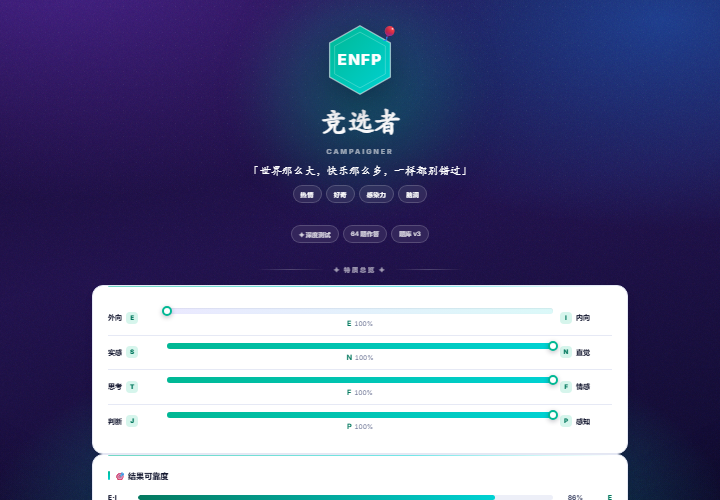
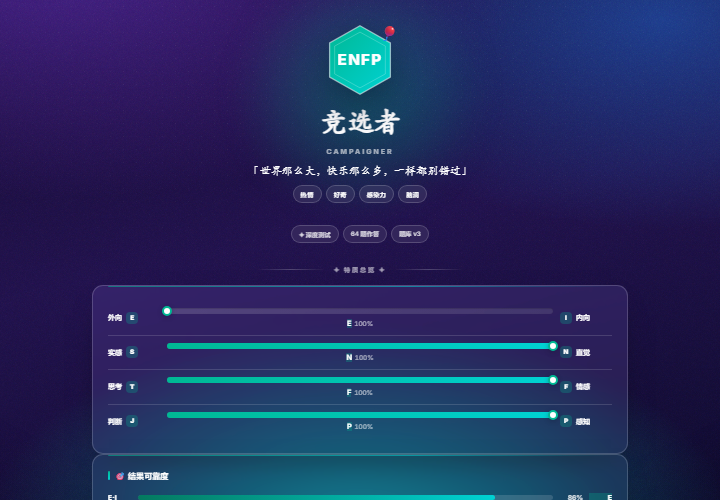
v4.1: 测试页/结果页改为玻璃材质，答题页布局恢复原版
按反馈调整：
- 答题页布局回归原版纵向三段式：顶部档位/重开 → 进度条与计数 →
  「雷达图（左 330px）＋ 题卡（右）」→ 实时画像预览（全宽，四维条两列）→ 题号跳转（全宽约 24 列）
- 顶栏不再吸附；题卡去掉 min-height 与垂直居中；删除上一版侧栏布局的
  .app-main/.app-side/.tt-row/.q-hint（含 CSS，保持无未使用类名）

玻璃材质（答题页 / 结果页，作用域主题层，不影响关系页与类型页的白卡）：
- 内容面 rgba(255,255,255,.075) + 白描边 + backdrop-filter blur(16px) saturate(130%) + 深投影
- 内层小面板 rgba(255,255,255,.07)；文字切换为深色面语义色阶（白 / .84 / .62 / .45）
- 类型色胶囊改深色面配方：color-mix(tcolor 26%) 底 + 白字 + 同色低透明描边
- 轨道/勾选框/题号格子/选项卡全部玻璃化；选项改为凸起玻璃砖（含顶部内高光）
- 次要按钮玻璃化，避免深色面上出现不透明白块

测试：静态 206 + 逻辑 127 + 仿真 28 + 冒烟 48 + SW 18 = 427 项全绿
契约：232 个类名全部被引用；style.css 51.5 KB（预算 60 KB 内）

Changed region(s): [[0.1222, 0.57, 0.8861, 1.0]]

diff --git a/style.css b/style.css
@@ -158,7 +158,7 @@ img { max-width:100%; height:auto; }
 .home-visual { display:flex; align-items:center; justify-content:center; min-width:0; }
 /* grid/flex 子项默认 min-width:auto 会被内容顶宽 → 窄屏横向溢出，这里统一允许收缩 */
 .home-copy, .home-visual, .home-start, .mode-cards, .home-chips,
-.test-grid, .app-main, .app-side, .result-duo, .stress-grid, .more-grid,
+.test-grid, .result-duo, .stress-grid, .more-grid,
 .options, .live-bars, .rel-picker, .jump-grid { min-width:0; }
 .dial { width:100%; max-width:440px; height:auto; filter:drop-shadow(0 30px 60px rgba(10,6,40,.5)); }
 .dial-hex { transform-origin:220px 220px; animation:dialSpin 26s linear infinite; }
@@ -330,13 +330,8 @@ img { max-width:100%; height:auto; }
    8. 答题页
    ============================================================ */
 .test-wrap { max-width:1240px; }
-.test-top {
-  position:sticky; top:0; z-index:20; display:grid; gap:10px;
-  margin:calc(var(--sp-7) * -1) 0 var(--sp-5); padding:14px 0 12px;
-  background:linear-gradient(180deg, rgba(21,10,51,.92) 0%, rgba(21,10,51,.72) 70%, rgba(21,10,51,0) 100%);
-  backdrop-filter:blur(12px); -webkit-backdrop-filter:blur(12px);
-}
-.tt-row { display:flex; align-items:center; gap:12px; }
+/* 顶部：档位 / 重开（跟随内容流动，不做吸附） */
+.test-top { display:flex; align-items:center; gap:12px; margin-bottom:16px; }
 .logo-mini {
   font-size:.84rem; font-weight:700; letter-spacing:.06em; color:var(--on-dark-1);
   text-decoration:none; padding:7px 13px; border-radius:var(--r-full);
@@ -361,15 +356,8 @@ img { max-width:100%; height:auto; }
 }
 .progress-meta { display:flex; justify-content:space-between; gap:12px; font-size:.8rem; color:var(--on-dark-3); }
 .progress-meta b { color:#fff; font-variant-numeric:tabular-nums; }
-.test-grid { display:grid; grid-template-columns:minmax(0,1fr) 372px; gap:var(--sp-5); align-items:start; }
-.app-main { display:grid; gap:var(--sp-5); min-width:0; }
-.app-side { display:grid; gap:var(--sp-4); position:sticky; top:112px; }
-.q-card { padding:var(--sp-7) var(--sp-6) var(--sp-6); min-height:480px; display:flex; flex-direction:column; justify-content:center; }
-.q-hint {
-  margin:var(--sp-4) 0 0; font-size:.78rem; color:var(--text-4); text-align:center;
-  padding-top:var(--sp-4); border-top:1px dashed var(--line-2);
-}
-.q-hint b { color:var(--tcolor-ink, var(--tcolor)); font-weight:800; }
+.test-grid { display:grid; grid-template-columns:330px minmax(0,1fr); gap:var(--sp-5); align-items:start; }
+.q-card { padding:var(--sp-6); }
 .q-num {
   align-self:flex-start;
   display:inline-flex; align-items:center; gap:8px;
@@ -423,7 +411,7 @@ img { max-width:100%; height:auto; }
 .live-panel { padding:var(--sp-5); }
 .live-head { display:grid; gap:8px; margin-bottom:var(--sp-4); }
 .live-bubble { font-size:.84rem; line-height:1.7; color:var(--text-3); }
-.live-bars { display:grid; gap:11px; }
+.live-bars { display:grid; gap:14px 28px; grid-template-columns:1fr 1fr; }
 .live-bar { display:grid; grid-template-columns:34px minmax(0,1fr) 44px; gap:10px; align-items:center; }
 .lb-label { font-size:.78rem; font-weight:800; color:var(--text-1); letter-spacing:.04em; }
 .lb-track {
@@ -447,7 +435,7 @@ img { max-width:100%; height:auto; }
 .jump-panel { padding:var(--sp-5); }
 .jump-head { display:flex; align-items:baseline; justify-content:space-between; gap:10px; margin-bottom:12px; }
 .jump-hint { font-size:.76rem; color:var(--text-4); }
-.jump-grid { display:grid; grid-template-columns:repeat(auto-fill, minmax(27px, 1fr)); gap:6px; }
+.jump-grid { display:grid; grid-template-columns:repeat(auto-fill, minmax(40px, 1fr)); gap:8px; }
 .jump-dot {
   aspect-ratio:1; border-radius:8px; border:1px solid var(--line-2); background:var(--paper-2);
   font-family:inherit; font-size:.7rem; font-weight:700; color:var(--text-3); cursor:pointer;
@@ -728,14 +716,140 @@ img { max-width:100%; height:auto; }
 @keyframes riseOut { to { opacity:0; transform:translateY(-10px); } }
 
 /* ============================================================
+   15. 玻璃材质主题（答题页 / 结果页）
+   ------------------------------------------------------------
+   这两个页面处于深色画布上，按首页的材质语言统一：
+   半透明玻璃面 + 白色描边 + 背景模糊 + 深色面文字色阶。
+   关系页与类型百科页保持纸面白卡（后续如需可同样切换）。
+   ============================================================ */
+:is(#page-test, #page-result) :is(
+  .desc-card, .gc-card, .fact-card, .trait-panel, .conf-panel, .easter-card,
+  .q-card, .radar-wrap, .live-panel, .jump-panel, .modal-card, .rel-stat, .rel-slot, .rel-side
+) {
+  background:rgba(255,255,255,.075);
+  border-color:rgba(255,255,255,.18);
+  box-shadow:0 26px 60px -34px rgba(0,0,0,.75);
+  color:rgba(255,255,255,.84);
+  backdrop-filter:blur(16px) saturate(130%);
+  -webkit-backdrop-filter:blur(16px) saturate(130%);
+}
+:is(#page-test, #page-result) :is(
+  .stress-item, .more-item, .cl-item, .cl-item-static, .hist-item, .rel-tabs, .q-num
+) {
+  background:rgba(255,255,255,.07);
+  border-color:rgba(255,255,255,.16);
+}
+/* 文字色阶 */
+:is(#page-test, #page-result) :is(
+  .desc-card h3, .gc-card h4, .conf-panel h4, .fact-card h3, .easter-card h2,
+  .trait-label, .conf-label, .lb-label, .live-letters, .q-text, .si-title, .mi-title, .opt
+) { color:#FFFFFF; }
+:is(#page-test, #page-result) :is(
+  .desc-text, .gc-text, .gc-list li, .cl-text, .rel-text, .easter-card p, .m-text,
+  .gc-bar-text, .conf-val, .lb-val, .opt.selected, .rel-tab.active
+) { color:rgba(255,255,255,.84); }
+:is(#page-test, #page-result) :is(
+  .gc-sub, .trait-pct, .cl-tip, .conf-note, .live-bubble, .jump-hint, .radar-hint,
+  .ed-val, .easter-hint, .radar-txt h3, .live-head h3, .jump-head span:first-child,
+  .cf-tag, .hist-delta, .hi-dim, .hi-val.right, .rel-tab, .opt-tag, .m-zh, .type-en
+) { color:rgba(255,255,255,.62); }
+:is(#page-test, #page-result) :is(.cl-item.done .cl-text) { color:rgba(255,255,255,.45); }
+/* 类型色胶囊 / 徽标：深色面上改用同色低透明底 + 白字 */
+:is(#page-test, #page-result) :is(
+  .gc-chip, .live-chip, .gc-num, .gc-quote, .trait-label b, .trait-pct b, .conf-letter,
+  .gc-bar-val, .cl-progress, .hist-type, .ed-label, .q-num, .rel-side b, .rel-stat b
+) {
+  background:color-mix(in srgb, var(--tcolor) 26%, transparent);
+  border-color:color-mix(in srgb, var(--tcolor) 48%, transparent);
+  color:#FFFFFF;
+}
+:is(#page-test, #page-result) :is(.gc-chip, .live-chip, .gc-quote, .q-num, .rel-side) {
+  border:1px solid color-mix(in srgb, var(--tcolor) 42%, transparent);
+}
+/* 轨道 / 输入面 / 勾选框 */
+:is(#page-test, #page-result) :is(.conf-track, .gc-bar, .rel-bar) { background:rgba(255,255,255,.14); }
+:is(#page-test, #page-result) :is(.lb-track, .trait-track) {
+  background:linear-gradient(90deg, rgba(255,255,255,.16), rgba(255,255,255,.10));
+  box-shadow:inset 0 1px 2px rgba(0,0,0,.28);
+}
+:is(#page-test, #page-result) :is(.lb-mid) { background:rgba(255,255,255,.30); }
+:is(#page-test, #page-result) :is(.cl-box) { background:rgba(255,255,255,.06); border-color:rgba(255,255,255,.30); }
+:is(#page-test, #page-result) :is(.jump-dot) {
+  background:rgba(255,255,255,.06); border-color:rgba(255,255,255,.16); color:rgba(255,255,255,.66);
+}
+:is(#page-test, #page-result) :is(.jump-dot.done) {
+  background:color-mix(in srgb, var(--tcolor) 30%, transparent);
+  border-color:color-mix(in srgb, var(--tcolor) 55%, transparent); color:#FFFFFF;
+}
+:is(#page-test, #page-result) :is(.opt) {
+  background:rgba(255,255,255,.13);
+  border-color:rgba(255,255,255,.26);
+  box-shadow:inset 0 1px 0 rgba(255,255,255,.14);
+}
+:is(#page-test, #page-result) :is(.opt:hover) {
+  background:rgba(255,255,255,.20);
+  border-color:color-mix(in srgb, var(--tcolor) 65%, transparent);
+}
+:is(#page-test, #page-result) :is(.opt.selected) {
+  background:color-mix(in srgb, var(--tcolor) 26%, transparent);
+  border-color:var(--tcolor);
+  box-shadow:0 0 0 3px color-mix(in srgb, var(--tcolor) 22%, transparent);
+}
+:is(#page-test, #page-result) :is(.opt-key) { background:rgba(255,255,255,.12); color:rgba(255,255,255,.72); }
+:is(#page-test, #page-result) :is(.opt.selected .opt-key) { background:var(--tcolor); color:#FFFFFF; }
+:is(#page-test, #page-result) :is(.opt.selected .opt-tag) { color:rgba(255,255,255,.86); }
+:is(#page-test, #page-result) :is(.opt-indicator) {
+  background:color-mix(in srgb, var(--tcolor) 26%, transparent);
+  border-color:var(--tcolor);
+}
+/* 分隔线与其余细节 */
+:is(#page-test, #page-result) :is(.live-foot) { border-top-color:rgba(255,255,255,.16); }
+:is(#page-test, #page-result) :is(.trait-row) { border-bottom-color:rgba(255,255,255,.14); }
+:is(#page-test, #page-result) :is(.cf-tag) { background:rgba(255,255,255,.10); }
+:is(#page-test, #page-result) :is(.trait-knob) { background:#FFFFFF; }
+:is(#page-test, #page-result) :is(.cl-item.done) {
+  background:color-mix(in srgb, var(--tcolor) 22%, transparent);
+  border-color:color-mix(in srgb, var(--tcolor) 50%, transparent);
+}
+:is(#page-test, #page-result) :is(.m-close) {
+  background:rgba(255,255,255,.10); border-color:rgba(255,255,255,.20); color:#FFFFFF;
+}
+:is(#page-test, #page-result) :is(.ed-track) {
+  background:linear-gradient(90deg, color-mix(in srgb, var(--tcolor) 55%, transparent), rgba(255,255,255,.16) 50%, rgba(255,255,255,.24));
+}
+:is(#page-test, #page-result) :is(.ed-track i) { background:#FFFFFF; border-color:var(--tcolor); }
+:is(#page-test, #page-result) :is(.milestone) { color:#FFFFFF; }
+:is(#page-test, #page-result) :is(.conf-facets.ok .cf-txt) { color:#7DEBEB; }
+:is(#page-test, #page-result) :is(.conf-facets.soso .cf-txt) { color:#F5C06B; }
+:is(#page-test, #page-result) :is(.conf-facets.split .cf-txt, .cf-warn) { color:#FF9B9B; }
+:is(#page-test, #page-result) :is(.trait-amb) { color:#F5C06B; background:rgba(245,166,35,.18); }
+:is(#page-test, #page-result) :is(.golden) {
+  background:rgba(245,166,35,.14) !important; border-color:rgba(245,166,35,.55) !important;
+}
+:is(#page-test, #page-result) :is(.rel-tab.active) {
+  background:linear-gradient(135deg, var(--tcolor), var(--cyan-500)); color:#FFFFFF;
+}
+/* 深色面上的次要按钮也改成玻璃，避免不透明白块突兀 */
+:is(#page-test, #page-result) :is(.btn-ghost, .btn.ghost) {
+  background:rgba(255,255,255,.10);
+  border-color:rgba(255,255,255,.22);
+  color:#FFFFFF;
+  backdrop-filter:blur(12px); -webkit-backdrop-filter:blur(12px);
+}
+:is(#page-test, #page-result) :is(.btn-ghost:hover, .btn.ghost:hover) {
+  background:rgba(255,255,255,.18);
+  border-color:rgba(255,255,255,.34);
+  box-shadow:0 14px 30px -16px rgba(0,0,0,.65);
+}
+
+/* ============================================================
    14. 响应式
    ============================================================ */
 @media (max-width: 1080px) {
   .home-grid { grid-template-columns:minmax(0,1fr); gap:var(--sp-6); }
   .home-visual { order:-1; }
   .dial { max-width:300px; }
-  .test-grid { grid-template-columns:1fr; }
-  .app-side { position:static; }
+  .test-grid { grid-template-columns:minmax(0,1fr); }
   .type-nav { grid-template-columns:repeat(4, minmax(0,1fr)); }
 }
 @media (max-width: 760px) {

diff --git a/test.html b/test.html
@@ -32,74 +32,67 @@
 
     <h1 class="visually-hidden">MBTI 人格测试答题</h1>
 
-    <!-- 顶部：档位 / 重开 + 进度（吸顶，答题时始终可见） -->
-    <header class="test-top">
-      <div class="tt-row">
-        <a class="logo-mini" href="index.html">✦ 人格实验室</a>
-        <span class="mode-badge" id="modeBadge">深度测试 · 64 题</span>
-        <span class="spacer"></span>
-        <a class="tt-reset" href="#" id="resetLink">↺ 重新开始</a>
-      </div>
-      <div class="progress-track" id="progressTrack" role="progressbar" aria-valuemin="0" aria-valuemax="64" aria-valuenow="0" aria-label="答题进度"><div class="progress-fill" id="progressFill"></div></div>
-      <div class="progress-meta">
-        <span>第 <b id="qCurrent">1</b> / <b id="qTotal">64</b> 题</span>
-        <span>已完成 <b id="qDone">0 / 64</b> 题</span>
-      </div>
-    </header>
+    <!-- 顶部：档位 / 重开 -->
+    <div class="test-top">
+      <a class="logo-mini" href="index.html">✦ 人格实验室</a>
+      <span class="mode-badge" id="modeBadge">深度测试 · 64 题</span>
+      <span class="spacer"></span>
+      <a class="tt-reset" href="#" id="resetLink">↺ 重新开始</a>
+    </div>
+
+    <div class="progress-track" id="progressTrack" role="progressbar" aria-valuemin="0" aria-valuemax="64" aria-valuenow="0" aria-label="答题进度"><div class="progress-fill" id="progressFill"></div></div>
+    <div class="progress-meta">
+      <span>第 <b id="qCurrent">1</b> / <b id="qTotal">64</b> 题</span>
+      <span>已完成 <b id="qDone">0</b> 题</span>
+    </div>
 
     <div class="test-grid">
-      <div class="app-main">
-        <!-- 题目卡片 -->
-        <section class="q-card">
-          <span class="q-num" id="qNum">第 1 题</span>
-          <p class="q-text" id="qText" aria-live="polite"></p>
-          <div class="options" id="options" role="radiogroup" aria-label="请选择你的同意程度"></div>
-
-          <div class="test-nav">
-            <button type="button" class="btn btn-ghost" id="prevBtn">← 上一题</button>
-            <button type="button" class="btn btn-primary" id="nextBtn">下一题 →</button>
-          </div>
-
-          <p class="q-hint">键盘 <b>1-4</b> 选答 · <b>← →</b> 切题 · 进度自动保存，随时可以回来继续</p>
-
-          <!-- 阶段提示（深度测试每 15 题一次） -->
-          <div class="milestone" id="milestone" role="status"></div>
-        </section>
-      </div>
-
-      <aside class="app-side">
-        <!-- 实时雷达图 -->
-        <aside class="radar-wrap">
-          <div class="radar-txt">
-            <h3>四维雷达图</h3>
-            <canvas id="radar" width="230" height="230" aria-label="四维人格倾向雷达图"></canvas>
-            <p class="radar-hint">每次作答都会实时变化 ✨</p>
-          </div>
-        </aside>
-
-        <!-- 实时画像预览 -->
-        <section class="live-panel" id="livePanel">
-          <div class="live-head">
-            <h3>✦ 实时画像预览 ✦</h3>
-            <span class="live-bubble" id="liveBubble" aria-live="polite">嘘——没有标准答案，凭第一直觉选 ✨</span>
-          </div>
-          <div class="live-bars" id="liveBars"></div>
-          <div class="live-foot">
-            <div class="live-letters" id="liveLetters">? · ? · ? · ?</div>
-            <div class="live-chips" id="liveChips"></div>
-          </div>
-        </section>
-
-        <!-- 题号跳转 -->
-        <section class="jump-panel">
-          <div class="jump-head">
-            <span>题号跳转</span>
-            <span class="jump-hint">键盘 1-4 选答案 · ← → 切题</span>
-          </div>
-          <div class="jump-grid" id="jumpGrid"></div>
-        </section>
+      <!-- 实时雷达图 -->
+      <aside class="radar-wrap">
+        <div class="radar-txt">
+          <h3>四维雷达图</h3>
+          <canvas id="radar" width="230" height="230" aria-label="四维人格倾向雷达图"></canvas>
+          <p class="radar-hint">每次作答都会实时变化 ✨</p>
+        </div>
       </aside>
+
+      <!-- 题目卡片 -->
+      <section class="q-card">
+        <span class="q-num" id="qNum">第 1 题</span>
+        <p class="q-text" id="qText" aria-live="polite"></p>
+        <div class="options" id="options" role="radiogroup" aria-label="请选择你的同意程度"></div>
+
+        <div class="test-nav">
+          <button type="button" class="btn btn-ghost" id="prevBtn">← 上一题</button>
+          <button type="button" class="btn btn-primary" id="nextBtn">下一题 →</button>
+        </div>
+
+        <!-- 阶段提示（深度测试每 15 题一次） -->
+        <div class="milestone" id="milestone" role="status"></div>
+      </section>
     </div>
+
+    <!-- 实时画像预览 -->
+    <section class="live-panel" id="livePanel">
+      <div class="live-head">
+        <h3>✦ 实时画像预览 ✦</h3>
+        <span class="live-bubble" id="liveBubble" aria-live="polite">嘘——没有标准答案，凭第一直觉选 ✨</span>
+      </div>
+      <div class="live-bars" id="liveBars"></div>
+      <div class="live-foot">
+        <div class="live-letters" id="liveLetters">? · ? · ? · ?</div>
+        <div class="live-chips" id="liveChips"></div>
+      </div>
+    </section>
+
+    <!-- 题号跳转 -->
+    <section class="jump-panel">
+      <div class="jump-head">
+        <span>题号跳转</span>
+        <span class="jump-hint">键盘 1-4 选答案 · ← → 切题</span>
+      </div>
+      <div class="jump-grid" id="jumpGrid"></div>
+    </section>
   </main>
 
   <div class="toast" id="toast" role="status"></div>

diff --git a/README.md b/README.md
@@ -68,11 +68,13 @@
 ### 结果页
 ![结果页](assets/screenshots/result.png)
 
-**设计体系（v4）**：深空紫画布（网格纹理 + 光斑 + 暗角）＋ 单一白色内容面 ＋ 类型色强调 ＋ 编辑式标题。
+**设计体系（v4）**：深空紫画布（网格纹理 + 光斑 + 暗角）＋ 类型色强调 ＋ 编辑式标题。
+- **材质**：内容面统一为半透明玻璃（`rgba(255,255,255,.075)` + 白色描边 + `backdrop-filter`），
+  答题页、结果页与首页同一套语言；关系页与类型百科页为纸面白卡
 - 令牌化：颜色/空间/圆角/阴影/动效全部集中在 `:root`，组件只消费令牌
-- 材质统一：内容卡片一律纯白 + 细边 + 分层阴影；玻璃质感只用于深色画布上的小元件（胶囊/档位卡）
 - 层次明确：区块标题带类型色竖轨，卡片顶部一道渐变细轨，列表/编号/胶囊三种信息形态复用
-- 首屏即构图：首页为双栏 hero（文案 + 四维罗盘图形），答题页为「题卡 + 吸附侧栏」应用式布局
+- 首屏即构图：首页为双栏 hero（文案 + 四维罗盘图形）
+- 答题页为**原版纵向布局**：雷达图（左）＋ 题卡（右）→ 实时画像预览 → 题号跳转
 - 无障碍与稳健：焦点环、跳过导航、`prefers-reduced-motion` 下不做动画且**内容默认可见**
 
 ### 传播与 SEO- **16 型百科页**：每型独立静态页（`types/intj.html` 等），含完整档案 + 类型导航 + 回流入口，面向搜索与分享
